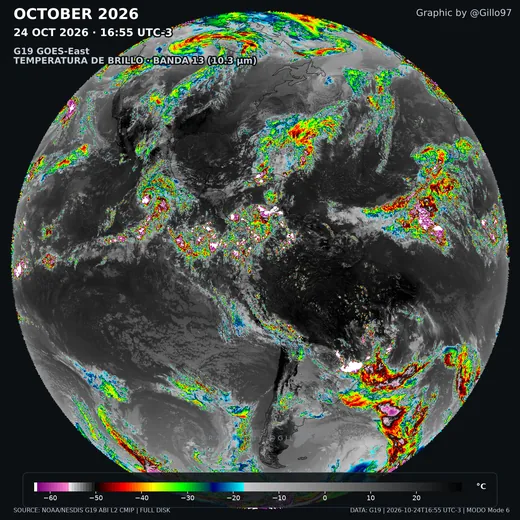
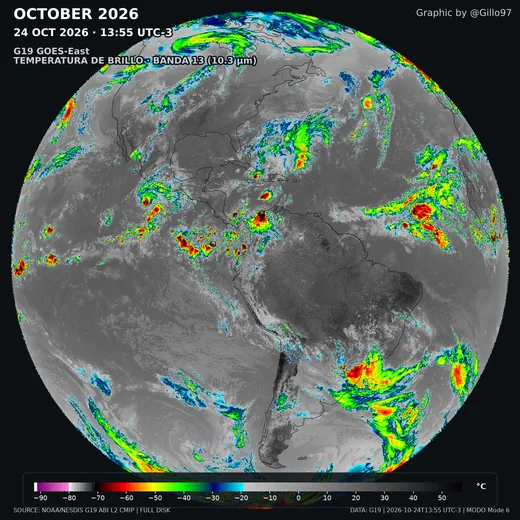
fix(app): use the fixed GIBS scale for clean_ir, add Himawari-9
La paleta era correcta pero GOES la estiraba con percentiles: a -40 C GIBS pinta verde y el poster pintaba rojo. Ahora clean_ir usa --vmin -92.1 --vmax 56.9, igual que el render de Himawari y Worldview.

Nuevo producto Himawari-9 (AHI B13): disco completo en la proyeccion del satelite, centrado en 140.7 E con radio 90, sin recorte regional. Resolucion por defecto 2712 px.

diff --git a/app/api/recipes.py b/app/api/recipes.py
@@ -426,6 +426,11 @@ def _goes(params: dict[str, Any], work: Path) -> Plan:
         "--frames", str(work / "frames"),
         "--lote", "1",
     ]
+    if str(params.get("paleta", "clean_ir")) == "clean_ir":
+        # La rampa de GIBS tiene escala fija (-92.1 a 56.9 C). Con percentiles
+        # los mismos colores caen en otras temperaturas y deja de coincidir con
+        # Worldview (y con el render de Himawari, que si la usa fija).
+        args += ["--vmin", "-92.1", "--vmax", "56.9"]
 
     render_step = Step(
         kind="render",
@@ -717,6 +722,89 @@ def _mur_realista(params: dict[str, Any], work: Path) -> Plan:
     return Plan(pasos=pasos, descarga=descarga)
 
 
+
+# --- HIMAWARI-9: disco completo en la proyeccion del satelite -----------
+_LON_SUBSAT["H09"] = 140.7  # Himawari-9 esta en 140.7 E
+
+_SLOT_HIMAWARI = re.compile(r"(\d{4})(\d{2})(\d{2})_(\d{2})(\d{2})")
+
+
+def _carpeta_himawari() -> Path:
+    from .catalog import data_root  # import local: evita el ciclo
+
+    return data_root() / "himawari_b13_h09"
+
+
+def _slots_himawari() -> list[datetime]:
+    """Marcas con `.npz` en disco, leidas del nombre (`YYYYMMDD_HHMM.npz`)."""
+    carpeta = _carpeta_himawari()
+    if not carpeta.is_dir():
+        return []
+    slots: list[datetime] = []
+    for archivo in carpeta.glob("*.npz"):
+        match = _SLOT_HIMAWARI.search(archivo.name)
+        if not match:
+            continue
+        anio, mes, dia, hora, minuto = (int(g) for g in match.groups())
+        try:
+            slots.append(datetime(anio, mes, dia, hora, minuto))
+        except ValueError:
+            continue
+    return sorted(set(slots))
+
+
+def _himawari(params: dict[str, Any], work: Path) -> Plan:
+    inicio, fin = _rango(params)
+    px = _px(params, 1400)
+    forzar = _bool(params, "descargar")
+    animar = _bool(params, "animar")
+
+    disponibles = [s for s in _slots_himawari() if inicio <= s.date() <= fin]
+    cenital = _slot_cenital(inicio, _LON_SUBSAT["H09"])
+    ventana = _ventana_animacion(
+        inicio, fin, params.get("hora_desde", 0), params.get("hora_hasta", 24)
+    )
+    desde, n, paso, falta = _plan_slots(set(disponibles), cenital, animar, ventana)
+
+    descarga = Step(
+        kind="download",
+        label=f"bajando B13 de Himawari-9 ({n} slot(s))",
+        script="descargar/descargar_himawari.py",
+        args=[
+            "--sat", "H09",
+            "--banda", "13",
+            "--desde", desde.strftime("%Y-%m-%dT%H:%M"),
+            "--hasta", (desde + timedelta(minutes=paso * n)).strftime("%Y-%m-%dT%H:%M"),
+            "--paso", str(paso),
+        ],
+        expected=max(1, math.ceil(n / 10)),
+    )
+
+    render_step = Step(
+        kind="render",
+        label=f"renderizando {n} cuadro(s) de Himawari",
+        script="cuadros/cuadros_himawari_ir.py",
+        args=[
+            "--desde", desde.strftime("%Y-%m-%dT%H:%M"),
+            "--n", str(n),
+            "--paso", str(paso),
+            "--px", str(px),
+            # Centro en el punto subsatelital y radio 90: el disco completo,
+            # sin recorte regional.
+            "--centro", f"{_LON_SUBSAT['H09']:g}", "0",
+            "--radio", "90",
+            "--datos", str(_carpeta_himawari()),
+            "--out", str(work),
+            "--frames", str(work / "frames"),
+            "--lote", "1",
+        ],
+        expected=n,
+    )
+
+    pasos = [descarga, render_step] if (forzar or falta) else [render_step]
+    return Plan(pasos=pasos, descarga=descarga)
+
+
 _CONSTRUCTORES = {
     "goes_c13": _goes,
     "goes_truecolor": _goes_truecolor,
@@ -725,6 +813,7 @@ _CONSTRUCTORES = {
     "precipitacion_ecmwf": _precipitacion,
     "anomalia_2t": _anomalia,
     "follaje": _follaje,
+    "himawari": _himawari,
 }
 
 

diff --git a/app/api/catalog.py b/app/api/catalog.py
@@ -329,6 +329,54 @@ PRODUCTS: list[Product] = [
         ],
     ),
     Product(
+        id="himawari",
+        name="Himawari-9 - disco completo (B13)",
+        group="satelite",
+        stage="descargar/descargar_himawari.py + cuadros/cuadros_himawari_ir.py",
+        summary="AHI banda 13 (10.4 um). El disco entero, centrado en el punto "
+        "subsatelital (140.7 E): la vista del satelite, sin recorte regional.",
+        params=[
+            ParamSpec(name="ventana", label="Ventana temporal", kind="date-range", default=_rango()),
+            ParamSpec(
+                name="resolucion",
+                label="Resolucion",
+                kind="select",
+                default="2712",
+                options=_RESOLUCIONES,
+                help="2712 px es el default del script; por debajo el titulo se superpone",
+            ),
+            ParamSpec(
+                name="descargar",
+                label="Forzar descarga",
+                kind="toggle",
+                default=False,
+                help="baja los HSD de JMA y los decodifica a .npz (uno por slot)",
+            ),
+            ParamSpec(
+                name="hora_desde",
+                label="Desde (hora local UTC-3)",
+                kind="slider",
+                default=0,
+                min=0,
+                max=23,
+                step=1,
+                help="solo al animar: 0 a 24 son los 144 cuadros del dia, cada 10 min",
+            ),
+            ParamSpec(
+                name="hora_hasta",
+                label="Hasta (hora local UTC-3)",
+                kind="slider",
+                default=24,
+                min=1,
+                max=24,
+                step=1,
+                help="fin exclusivo: 24 cierra el dia completo",
+            ),
+            ParamSpec(name="animar", label="Animar", kind="toggle", default=False),
+            ParamSpec(name="fps", label="Cuadros por segundo", kind="slider", default=12, min=4, max=30, step=2),
+        ],
+    ),
+    Product(
         id="follaje",
         name="PACE - follaje (LANDVI)",
         group="satelite",
@@ -432,6 +480,11 @@ def available_dates(product: Product, params: dict | None = None) -> tuple[str, 
         datos = raiz / carpeta
         if datos.is_dir():
             encontradas |= _fechas_de_nombres([f.name for f in datos.glob("*.nc")], _DIA_GOES)
+
+    if product.id == "himawari":
+        datos = raiz / "himawari_b13_h09"
+        if datos.is_dir():
+            encontradas |= _fechas_de_nombres([f.name for f in datos.glob("*.npz")], _FECHA_ISO)
 
     if product.id == "follaje":
         datos = raiz / "pace_landvi"

diff --git a/app/tools/previews.py b/app/tools/previews.py
@@ -23,12 +23,13 @@ CALIDAD = 82
 
 # Render de referencia por producto. `None` = no hay muestra disponible.
 FUENTES: dict[str, Path | None] = {
-    "goes_c13": CACHE / "625bac70faf5" / "frames" / "cuadro_001.png",
+    "goes_c13": CACHE / "409c61c9a623" / "frames" / "cuadro_001.png",
     "goes_truecolor": CACHE / "9926fac8bf30" / "truecolor_2026-04-15T1700.png",
     "mur_sst": SALIDAS / "frames_mur_globo_2025-01-01T0000_94f_2711px" / "cuadro_001.png",
     "mur_realista": CACHE / "70d167e92153" / "mur_realista_1400px.png",
     "precipitacion_ecmwf": CACHE / "4af5f2bccc3b" / "poster_precip_ecmwf_2026-10-31_00z_fh012.png",
     "anomalia_2t": CACHE / "109dba2d51d7" / "poster_anom2t_ifs_2026-10-30_06z_fh144.png",
+    "himawari": CACHE / "9a62988526ae" / "frames" / "cuadro_001.png",
     "follaje": SALIDAS / "frames_follaje_pace_globo_ortho3d_2026-08-07T0000_66f_1440px" / "cuadro_001.png",
 }
 

diff --git a/app/api/jobs.py b/app/api/jobs.py
@@ -39,7 +39,7 @@ TERMINALES = ("done", "error", "cancelled")
 
 # Subir esto invalida la cache: la firma tiene que representar la receta entera,
 # incluido como se dibuja (paleta, fondo, capas), no solo los parametros.
-RECETA_VERSION = 11
+RECETA_VERSION = 12
 
 # Reparto del progreso entre etapas. La descarga y el render son lo que pesa.
 _PESO = {"download": 0.4, "render": 0.5, "animate": 0.1}
@@ -536,6 +536,7 @@ class JobManager:
         if job.cancelar.is_set():
             raise asyncio.CancelledError
         return codigo
+
 
 
 

diff --git a/app/README.md b/app/README.md
@@ -152,6 +152,29 @@ estilo, se vuelve a correr:
 app\.venv\Scripts\python.exe app\tools\previews.py
 ```
 
+### La paleta GIBS y su escala
+
+La rampa `clean_ir` de `comun/paleta_gibs.py` es la de Worldview y **es correcta**:
+237 bins copiados del XML oficial. El problema era la **escala**.
+
+- Himawari la usa con el rango fijo de GIBS: **-92.1 a 56.9 °C**.
+- GOES la usaba con percentiles 0.5/99.5 del primer cuadro.
+
+Con percentiles, la misma temperatura caía en otro color: a -40 °C GIBS pinta
+verde y el póster de GOES pintaba rojo. Ahora, cuando la paleta es `clean_ir`,
+la app pasa `--vmin -92.1 --vmax 56.9` y las dos barras quedan idénticas.
+
+### Himawari-9
+
+Producto propio (`descargar_himawari.py` + `cuadros_himawari_ir.py`): disco
+completo en la proyección del satélite, centrado en su punto subsatelital
+(**140.7 E, lat 0**) con `--radio 90`. Sin recorte regional.
+
+- Los slots son `.npz` de ~21 MB en `himawari_b13_h09` (`YYYYMMDD_HHMM.npz`).
+- La descarga decodifica HSD de JMA, así que es más lenta que un `.nc` de GOES.
+- Resolución por defecto **2712 px**: es el default del script y por debajo el
+  título se superpone con el crédito.
+
 ### Animación: rango horario y cadencia
 
 Al animar, la serie cubre el **rango horario elegido** con la cadencia real del
